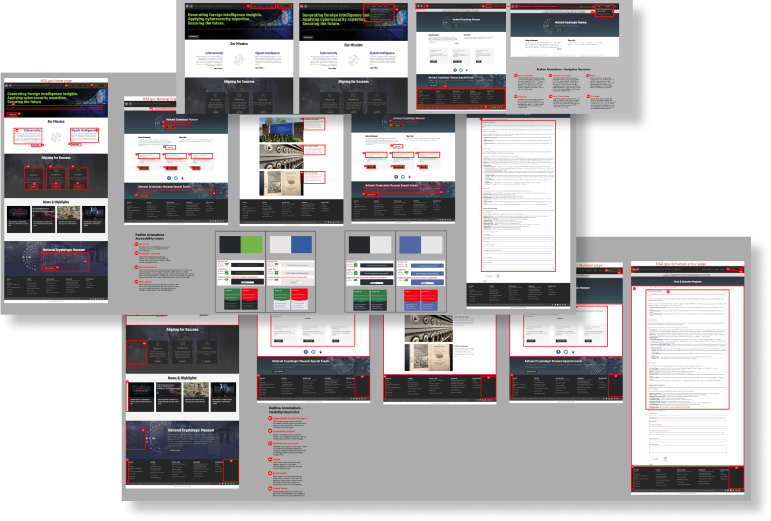
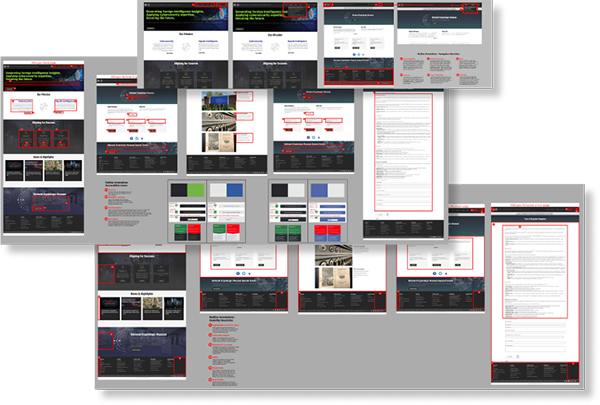
Updates

diff --git a/index.html b/index.html
@@ -60,22 +60,12 @@
           <p>As a team, we performed user research and competitive analysis, and created user flow, wireframes and prototype in a 3-week sprint. I worked on this project as part of my University of Minnesota UX/UI Design course. </p>
           <h3 class="header3">Tools</h3>
           <p>Figma - Miro - Invision - Adobe Photoshop - Adobe Illustrator</p></div>
-          <div class="headerImage"><img src="./Images/NSA_Mockup.png">
-        </div></div>
+          <div class="headerImage"><img src="./Images/NSA_Mockup.png"></div>
+        </div>
         </div>
     </div>
-    <ul class="nav justify-content-center">
-        <li class="nav-item active">
-          <button class="nav-link" href="#">User Research
-          </button>
-        <li class="nav-item">
-            <button class="nav-link" href="#">Definition & Ideation</button>
-        </li>
-        <li class="nav-item">
-            <button class="nav-link" href="#">Prototype</button>
-        </li>
-      </ul>
 </section>
+
 <section class="userResearch">
     <div class="jumbotron jumbotron-fluid">
         <div class="itemContainer">
@@ -92,19 +82,20 @@
             
             Seeing as none of our users were particularly interested in the site before testing, not a single one claimed viewing the website made them anymore interested in what the NSA does.</p></div>
             <div>
-            <div class="caseImage"><img src="./Images/Group 22.png" max-width="50%"></div>
+            <div class="caseImage"><img src="./Images/Group 22.png"></div>
         </div>
     </section>
+
     <section class="definitionIdeation">
         <div class="jumbotron jumbotron-fluid">
             <div class="itemContainer">
-                <div>
-                <div class="caseImage"><img src="./Images/Group 23.png"></div>
-                </div>
                 <div class="description">
               <h3 class="header3box">Definition & Ideation</h3>
               <p class="copy">Through testing we were able to pin-point user pain points across the site, and created an Affinity Diagram and User Persona to give us a better idea as to how to design the site based on the data. After card-sorting, we were also able to create a redesigned sitemap in hopes of overcoming the confusion caused by the navigation dropdown links and the free up space in the footer.<br> <br>
             Our testing also gave us a good deal of feedback on the overall color scheme and the look and feel we wanted to give the updated site. After discussion and a feedback session, we created mood boards showcasing what we thought would be the best direction to go in the overall tone of the website. We decided to play on the history and nostalgia of the NSA, as well as the agencies inspiration in entertainment and media, giving the site a “Noir” tone with gritty “Cold War” imagery, but keeping the technology - both old and new -front and center.</p></div>
+            <div>
+                <div class="caseImage"><img src="./Images/Group 23.png"></div>
+                </div>
         </section>
 
 <section class="prototype">
@@ -116,7 +107,7 @@
                   <p class="copy">After testing and iteration, we came up with an overall design that we thought would not only be visually appealing, but also pique the interest of the users. We wanted to have an air of mystery behind everything, but also keep the user updated and informed. To do this, we adopted a “High-tech” but “Cold War” look, using the main green color from the original page, but adding in darker tones and different shades of gray, as well as black & white imagery. 
 
                     As stated, the inspiration was the agency’s own history, as well as how entertainment and media has romanticized spycraft throughout the years, stretching all the way back to Hollywood’s Golden Age with films like “Casablanca” and “Notorious,” to Cold War classics like “The Conversation” and “Three Days of the Condor,” as well as new entrants like “Bridge of Spies,” “The Imitation Game,” and film series like James Bond and Jason Bourne.</p>
-            <button>View Prototype</button></div>
+            <button class="newButton" href src="https://www.figma.com/proto/AtcWF8HLhivWjdsKK1pOCV/NSA-Redline?node-id=4079%3A611&scaling=scale-down&page-id=0%3A1&starting-point-node-id=4079%3A611&show-proto-sidebar=1" target="_blank">View Prototype</button></div>
                 <div>
                     <div class="caseImage"><img src="Images/Group 24.png"></div>
                     </div>
@@ -129,11 +120,9 @@
                     <li>CONTACT</li>
                 </ul>
             </footer>
-
-
 </body>
 <script src="https://cdn.jsdelivr.net/npm/bootstrap@5.2.2/dist/js/bootstrap.bundle.min.js" integrity="sha384-OERcA2EqjJCMA+/3y+gxIOqMEjwtxJY7qPCqsdltbNJuaOe923+mo//f6V8Qbsw3" crossorigin="anonymous"></script>
 <script src="https://cdn.jsdelivr.net/npm/@popperjs/core@2.11.6/dist/umd/popper.min.js" integrity="sha384-oBqDVmMz9ATKxIep9tiCxS/Z9fNfEXiDAYTujMAeBAsjFuCZSmKbSSUnQlmh/jp3" crossorigin="anonymous"></script>
 <script src="https://cdn.jsdelivr.net/npm/bootstrap@5.2.2/dist/js/bootstrap.min.js" integrity="sha384-IDwe1+LCz02ROU9k972gdyvl+AESN10+x7tBKgc9I5HFtuNz0wWnPclzo6p9vxnk" crossorigin="anonymous"></script>
-,<script src="./index.js"></script>
+<script src="./index.js"></script>
 </html>

diff --git a/CSS/index.css b/CSS/index.css
@@ -36,10 +36,12 @@
     width: 300px;
     text-align: center;
 }
+
 .itemContainer {
-    padding: 50px;
+    padding: 20px;
     display: flex;
     align-items: center;
+    column-gap: 20px;
 
 }
 .description {
@@ -48,9 +50,9 @@
 }
 .caseImage {
     padding: 20px;
-    width: 10%;
+    max-width: 400px;
 }
-button {
+.newButton {
     font-family: "Poppins";
     font-size: 16px;
     margin-right: 10px;
@@ -76,4 +78,21 @@ button {
 .caseFooter li {
     display: inline-block;
     padding: 10px;
+}
+
+@media only screen and (max-width: 450px) {
+    .itemContainer {
+        padding: 10px;
+        display: flex;
+        flex-direction: column-reverse;    
+    }
+
+    .caseImage {
+        width: 300px;
+    }
+
+    .headerImage {
+        width: 300px;
+    }
+    
 }
